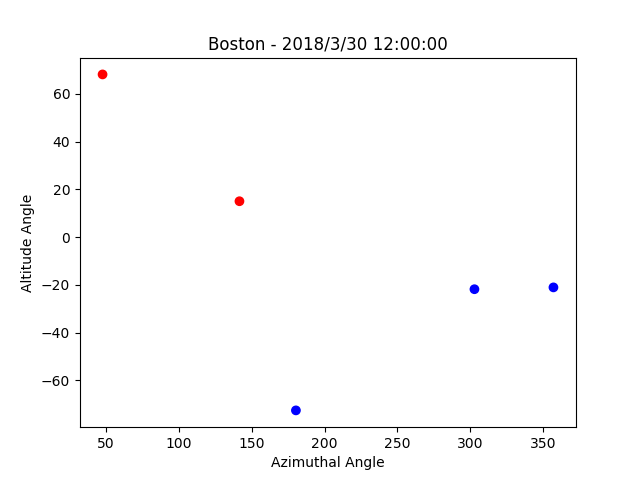
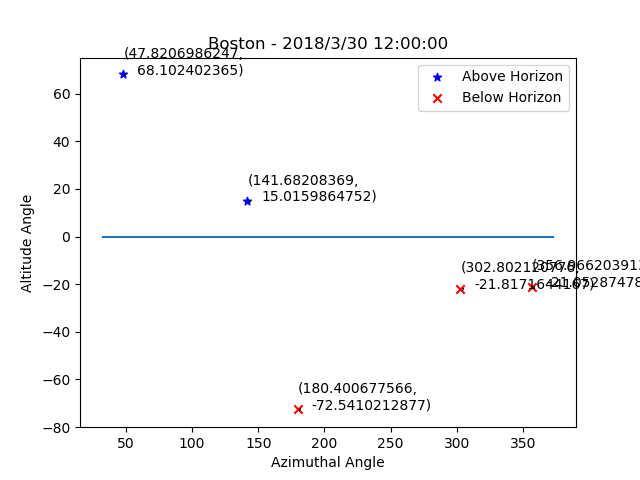
Improve graph visualization

diff --git a/astro/main.py b/astro/main.py
@@ -73,12 +73,31 @@ greenwich.date = '2018/3/30 12:00:00'
 
 def draw_graph(az,alt,place='Mandi',time='12:00'):
     df = pd.DataFrame({'x': alt, 'y': az})
+    # split dataframes
+    df_plus = df[df.y >= 0]
+    df_minus = df[df.y < 0]
+    # plot scatter
     fig, ax = plt.subplots()
-    ax.scatter(df.x, df.y, c=np.sign(df.y), cmap="bwr")
+    ax.scatter(df_plus.x, df_plus.y, label='Above Horizon',marker='*', c='b')
+    ax.scatter(df_minus.x, df_minus.y, label='Below Horizon',marker='x', c='r')
+    ax.legend()
+    ax.autoscale()
+    #Add Annotation
+    for i, j in zip(df.x, df.y):
+        ax.annotate('%s)' % j, xy=(round(i), j), xytext=(
+            10, 0), textcoords='offset points')
+        ax.annotate('(%s,\n,' % i, xy=(round(i), j))
+    #Add Label
     plt.ylabel('Altitude Angle')
     plt.xlabel('Azimuthal Angle')
     plt.title(place + " - " + str(time))
-    filename = os.getcwd() + "/" + place + ".png"
+    #Draw x-axis
+    kk = ax.get_xlim()
+    xx = np.linspace(kk[0], kk[1])
+    yy = np.linspace(0, 0)
+    plt.plot(xx, yy)
+
+    filename = os.getcwd() + "/astro/" + place + ".png"
     if not os.path.exists(filename):
         with open(filename, 'w'): pass
     plt.savefig(filename)
